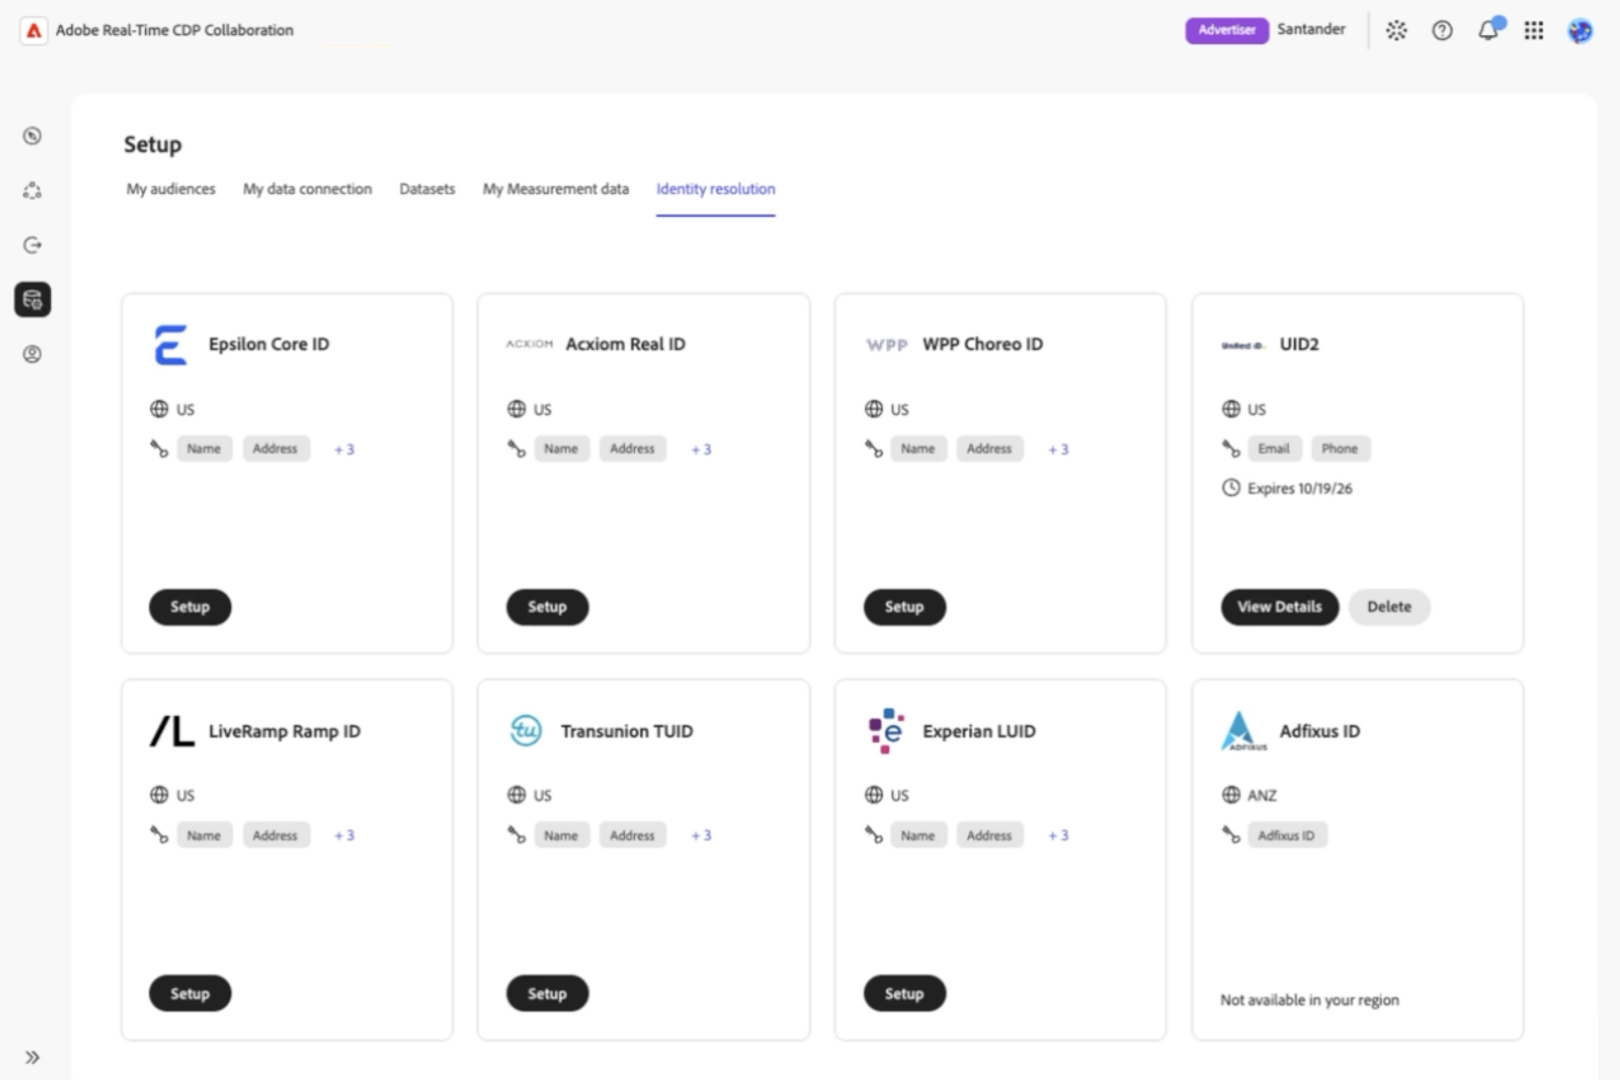
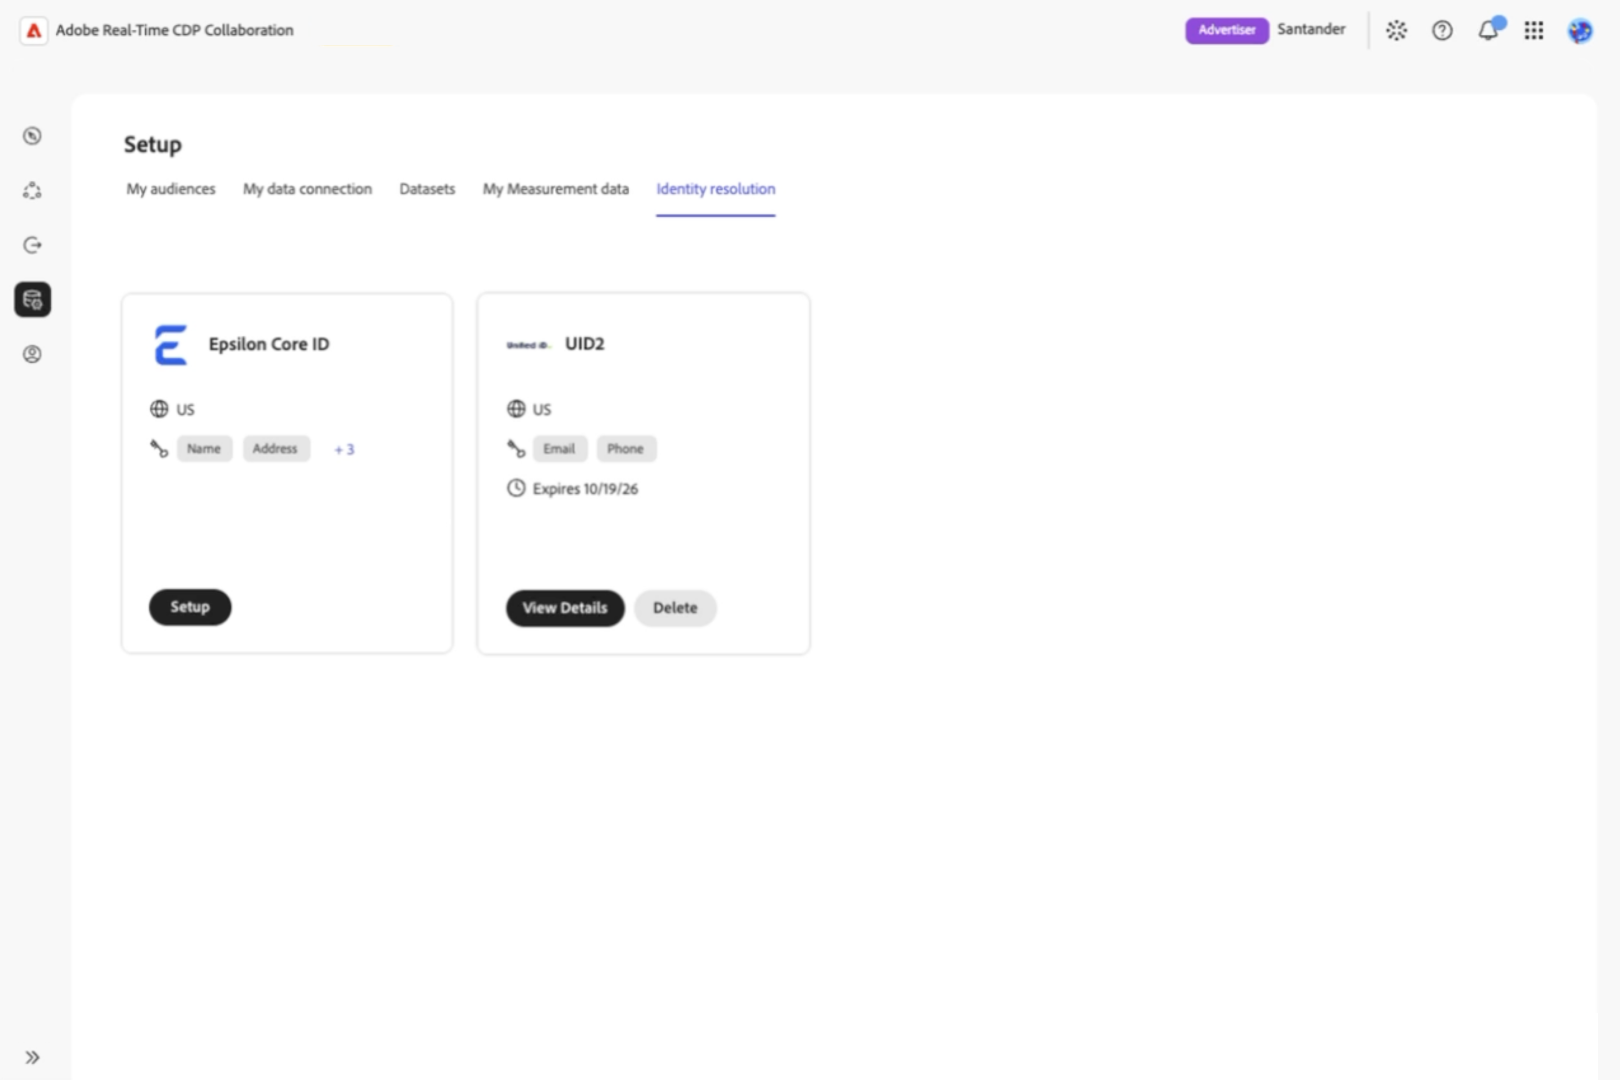
updates for clairty, general provider changes and flow

diff --git a/help/guide/setup/identity-resolution.md b/help/guide/setup/identity-resolution.md
@@ -1,6 +1,6 @@
 ---
 title: Set up and manage identity resolution
-description: Learn how to configure and manage Epsilon Core ID identity resolution for audience data connections in Real-Time CDP Collaboration.
+description: Learn how to configure and manage identity resolution in Real-Time CDP Collaboration.
 audience: admin, publisher, advertiser
 badgelimitedavailability: label="Limited Availability" type="Informative" url="https://helpx.adobe.com/legal/product-descriptions/real-time-customer-data-platform-collaboration.html newtab=true"
 product_v2:
@@ -11,19 +11,23 @@ product_v2:
 
 {{limited-availability-release-note}}
 
-Your organization and its collaborators may use different identifiers for the same customer. [!DNL Epsilon Core ID] identity resolution matches identifiers in your audience data to Epsilon Core IDs, helping you identify shared customers when working with supported collaborators. Real-Time CDP Collaboration lets you configure and manage this process without building custom integrations for individual partners.
+Identity resolution helps you identify customers you have in common with collaborators, even when your organizations use different identifiers. Real-Time CDP Collaboration lets you configure and manage identity resolution with supported identity providers without building custom integrations for each partner.
+
+>[!NOTE]
+>
+>The steps and screenshots in this guide use [!DNL Epsilon Core ID] as an example. Requirements and available options may differ depending on your identity provider.
 
 >[!AVAILABILITY]
 >
->Epsilon Core ID identity resolution is available for Real-Time CDP Collaboration accounts provisioned in the United States.
+>Epsilon Core ID and UID2 identity resolution are only available for Real-Time CDP Collaboration accounts provisioned in the United States.
 
 ## Prerequisites {#prerequisites}
 
 Before you begin, make sure you have:
 
 * **Account-management permissions.** You must have **[!UICONTROL Manage Account]** and **[!UICONTROL Manage Collaboration Instances]** permissions.
-* **At least one audience data connection.** You need an existing audience data connection to configure identity resolution. [Set up audience sourcing](./source-overview.md) if needed. Measurement data connections are not supported.
-* **Supported match keys.** Your audience data connection must have hashed email, hashed phone, or both Name and Postal address enabled and mapped. If using Name and Postal address, map at least one field under each key. See [account match keys](./onboard-account.md#edit-match-keys) and [audience field mapping](./onboard-audiences.md#map-fields).
+* **At least one audience data connection.** You need an existing audience data connection to configure Epsilon Core ID identity resolution. [Set up audience sourcing](./source-overview.md) if needed. Measurement data connections are not supported.
+* **Supported match keys for Epsilon Core ID.** Your audience data connection must have hashed email, hashed phone, or both Name and Postal address enabled and mapped. If using Name and Postal address, map at least one field under each key. See [account match keys](./onboard-account.md#edit-match-keys) and [audience field mapping](./onboard-audiences.md#map-fields).
 * **Your Epsilon customer number.** Obtain this from your Epsilon account representative.
 
 >[!NOTE]
@@ -32,7 +36,7 @@ Before you begin, make sure you have:
 
 ## Configure identity resolution {#configure-identity-resolution}
 
-Choose which audience data connections and match keys to use when matching your customer identities to Epsilon Core IDs. You'll also set the date range for identity resolution and review your selections before confirming the configuration.
+Select an identity provider to begin configuring identity resolution. In this [!DNL Epsilon Core ID] example, you'll choose audience data connections and match keys, set a date range, and review your selections before confirming the configuration.
 
 To begin, select **[!UICONTROL Setup]** in the left navigation followed by the **[!UICONTROL Identity resolution]** tab to view the available identity providers.
 
@@ -42,106 +46,94 @@ Locate the **[!UICONTROL Epsilon Core ID]** card and review its supported region
 
 ![Identity provider catalog with the Epsilon Core ID card and its Setup action.](../../assets/setup/identity-resolution/select-an-identity-provider.png){zoomable="yes"}
 
-<!-- [UNVERIFIED: This prototype catalog displays providers planned for future releases. Replace or validate the image against the launch catalog.] -->
-
-Before opening the wizard, Collaboration checks for a data connection and compatible match keys. If a requirement is missing, follow the action in the dialog:
+Before starting the configuration workflow, Collaboration checks for a data connection and compatible match keys. If a requirement is missing, a dialog appears to guide the process. Follow the action in the dialog:
 
 * **[!UICONTROL Data connection required]:** Select **[!UICONTROL Set up data connection]** to configure an audience data connection. See [Source and manage audiences](./source-overview.md).
 * **[!UICONTROL Match key required]:** Select **[!UICONTROL Edit match keys]** to enable a supported key. See [Edit match keys](./onboard-account.md#edit-match-keys).
 
 If both are missing, the data connection dialog appears first. After fixing the prerequisites, return to **[!UICONTROL Identity resolution]** and select **[!UICONTROL Setup]** again.
 
-Accounts outside the supported region show **[!UICONTROL Not available in your region]** on the provider card.
+### Authenticate with your identity provider {#authenticate-with-provider}
 
-<!-- [UNVERIFIED: The available prerequisite-dialog screenshots show TransUnion and Acxiom. Use Core ID-specific captures if including those dialogs.] -->
+In the **[!UICONTROL Authenticate]** step, provide the information required by your identity provider. For Epsilon Core ID, enter your customer number in **[!UICONTROL Epsilon customer number]**. Select **[!UICONTROL Next]** to continue.
 
-### Authenticate with Epsilon {#authenticate-with-epsilon}
+![Authenticate step showing the Epsilon customer number field.](../../assets/setup/identity-resolution/epsilon-core-id-authenticate.png){zoomable="yes"}
 
-In the **[!UICONTROL Authenticate]** step, enter your number in **[!UICONTROL Epsilon customer number]** to associate the configuration with your Epsilon account. Select **[!UICONTROL Next]** to continue.
-
-![Authenticate step with the required Epsilon customer number field.](../../assets/setup/identity-resolution/epsilon-core-id-authenticate.png){zoomable="yes"}
-
-Check the number with your Epsilon representative if you are unsure it is correct. The initial release does not validate its format.
+If you are unsure of your Epsilon customer number, contact your Epsilon representative. The customer number format is not validated during setup.
 
 ### Select data connections {#select-data-connections}
 
-Select the audience data connections to use for identity resolution. All audiences within each selected connection, including those added later, are included. You cannot select individual audiences.
+Next, choose which audience data connections you want to use for identity resolution. This determines which audience data will be used to match your customer identities with your identity provider. All audiences within each selected connection, including those added later, are included. You cannot select individual audiences.
 
-If a connection is missing, [set up the audience data connection](./source-overview.md) before continuing.
+If the connection you want isn't listed, [set up the audience data connection](./source-overview.md) before continuing.
 
-Under **[!UICONTROL Data source(s)]**, review the cards in **[!UICONTROL Audience sources]** and select the checkbox for each connection you want to include. You must select at least one connection. Select **[!UICONTROL Next]** to continue.
+Under **[!UICONTROL Data source(s)]**, select the checkbox for each connection you want to include in **[!UICONTROL Audience sources]**. You must select at least one connection. Select **[!UICONTROL Next]** to continue.
 
 ![Audience source cards showing selected and unselected data connections.](../../assets/setup/identity-resolution/select-audience-data-connections.png){zoomable="yes"}
 
-<!-- [UNVERIFIED: Replace the manually altered screenshot with an authentic release capture.] -->
-
 ### Configure match keys {#configure-match-keys}
 
-Choose which available match keys to use for each selected connection. Disabled keys are excluded from identity resolution for that connection. These selections do not change your account-level match keys or field mappings.
+In the **[!UICONTROL Match keys]** step, choose which match keys to use for identity resolution for each selected connection. Turning off a key excludes it from identity resolution for that connection without changing your account-level match keys or field mappings.
 
-Under **[!UICONTROL Match keys]**, review the available keys for each connection and turn off any you do not want to use. Leave at least one eligible match key enabled per connection, then select **[!UICONTROL Next]** to continue.
+Review the available keys for each connection and turn off any you don't want to use. Leave at least one eligible match key enabled per connection, then select **[!UICONTROL Next]** to continue.
 
 ![Match keys step showing identifier toggles for a selected audience connection.](../../assets/setup/identity-resolution/per-connection-match-key-toggles.png){zoomable="yes"}
-
-<!-- [UNVERIFIED: The prototype shows Device ID. Confirm the final Core ID key list and replace this screenshot if needed.] -->
 
 Core ID accepts hashed email, hashed phone, or the combination of Name and Postal address. If a key is missing, check the [account match keys](./onboard-account.md#edit-match-keys) and [audience field mappings](./onboard-audiences.md#map-fields).
 
 ### Set an identity resolution schedule {#set-schedule}
 
-Choose the date range for identity resolution. Runs follow the schedule of the underlying audience data connection; you cannot set a separate frequency in the wizard.
+Choose the start and end dates for identity resolution. Identity resolution follows the schedule of your audience data connection, so you cannot set a separate refresh frequency.
 
-Under **[!UICONTROL Schedule]**, select the calendar control for **[!UICONTROL Date range]** and choose the start and end dates. Select **[!UICONTROL Next]** to continue.
+In the **[!UICONTROL Schedule]** step, select the calendar control under **[!UICONTROL Date range]** and choose your dates. Select **[!UICONTROL Next]** to continue.
 
 ![Schedule step with a date range for Epsilon Core ID identity resolution.](../../assets/setup/identity-resolution/schedule-identity-resolution-job.png){zoomable="yes"}
 
-<!-- [UNVERIFIED: Replace this prototype screenshot. It mentions an API token, measurement sources, and a scheduling hold inconsistent with the confirmed launch workflow.] -->
-
 ### Review and confirm the configuration {#review-and-confirm}
 
-Review your authentication details, selected audience data connections, match keys, and schedule under **[!UICONTROL Review]**. To make changes, select **[!UICONTROL Edit]** beside the relevant section.
+In the **[!UICONTROL Review]** step, check your authentication details, selected audience data connections, match keys, and schedule. To make changes, select **[!UICONTROL Edit]** beside the relevant section.
 
-Once you've confirmed your selections, select **[!UICONTROL Confirm and schedule]**. You cannot edit the configuration after setup; changes require deleting it and setting it up again.
+You cannot edit the configuration after setup. To make changes later, you must delete it and set it up again. Once you're satisfied with your selections, select **[!UICONTROL Confirm and schedule]**.
 
 ![Review step showing the authentication, data sources, match keys, and schedule summary.](../../assets/setup/identity-resolution/review-and-confirm.png){zoomable="yes"}
 
-<!-- [UNVERIFIED: Replace this prototype screenshot. It mentions an API token, measurement sources, and a scheduling hold inconsistent with the confirmed launch workflow.] -->
+A confirmation dialog indicates that identity resolution has been configured successfully. The first identity resolution run starts **PLACEHOLDER**.
 
-A confirmation dialog indicates that the Core ID configuration has been set up. The first identity resolution run starts **PLACEHOLDER**.
-
-<!-- [UNVERIFIED: When does the first run start relative to confirmation and the data connection schedule?] -->
+<!-- [Question: Does the first identity resolution run happen immediately after setup, or at the next scheduled audience data connection refresh?] -->
 
 ## Manage identity resolution {#manage-identity-resolution}
 
-Return to **[!UICONTROL Setup]** > **[!UICONTROL Identity resolution]** to view or delete your Core ID configuration. Changes to an existing configuration require deleting it and setting it up again.
+After confirming your setup, you're automatically returned to the **[!UICONTROL Identity resolution]** tab, where you can view or delete your configuration.
 
 ### View configuration details {#view-configuration-details}
 
-On the configured **[!UICONTROL Epsilon Core ID]** card, select **[!UICONTROL View details]**.
+To review your configuration, select **[!UICONTROL View details]** on your configured identity provider's card.
 
-Check that the Epsilon customer number, match keys, date range, and audience data connections match your intended setup. The details page also shows the configuration's status and creation and update information.
+Verify the authentication details, selected audience data connections, match keys, and date range. You can also view the configuration status and creation and update information.
 
-![Epsilon Core ID details page with configuration status, match keys, schedule, and associated audience connection.](../../assets/setup/identity-resolution/view-connection-details.png){zoomable="yes"}
-
-<!-- [UNVERIFIED: Confirm the action label; the PRD says "View details," while Product says "View." Replace the staging screenshot to remove internal details. Active describes configuration status, not necessarily successful job processing; confirm whether run status is available.] -->
+![Identity resolution configuration details showing status, match keys, schedule, and associated audience connection.](../../assets/setup/identity-resolution/view-connection-details.png){zoomable="yes"}
 
 ### Change an existing configuration {#edit-configuration}
 
 You cannot edit a Core ID configuration after setup. To change the Epsilon customer number, selected connections, match keys, or date range, [delete the configuration](#delete-configuration) and complete the [setup workflow](#configure-identity-resolution) again.
 
+<!-- Question: Do other providers have the same limitation? -->
+
 ### Delete an identity resolution configuration {#delete-configuration}
 
-To delete an existing Core ID configuration, navigate to **[!UICONTROL Setup]** > **[!UICONTROL Identity resolution]** and select **[!UICONTROL Delete]** on the configured **[!UICONTROL Epsilon Core ID]** card. Review the confirmation dialog, then select **[!UICONTROL Delete]** to confirm.
+To delete a configuration, navigate to **[!UICONTROL Setup]** > **[!UICONTROL Identity resolution]** and select **[!UICONTROL Delete]** on your configured identity provider's card. Review the confirmation dialog, then select **[!UICONTROL Delete]** to confirm.
 
-Deleting the configuration **PLACEHOLDER**. You must [set it up again](#configure-identity-resolution) to use Core ID identity resolution with this account.
+Deleting the configuration **PLACEHOLDER**. If you want to use this identity provider again, you'll need to [set up a new configuration](#configure-identity-resolution).
 
 <!-- [UNVERIFIED: Does deletion affect previously resolved identifiers, future processing, or both? Confirm before publication.] -->
 
 ## Troubleshoot setup issues {#troubleshoot}
 
-If you encounter a missing data connection or match key, follow the instructions under [Select an identity provider](#select-identity-provider). For other setup issues, check the following:
+If you cannot begin setup because a data connection or match key is missing, follow the instructions under [Select an identity provider](#select-identity-provider).
 
-* **Not available in your region:** Core ID is available only to US-provisioned Collaboration accounts in this release.
-* **Epsilon customer number unavailable:** Request it from your Epsilon representative.
+For Epsilon Core ID, check the following:
+
+* **Not available in your region:** Epsilon Core ID is available only for Collaboration accounts provisioned in the United States.
+* **Epsilon customer number unavailable:** Contact your Epsilon representative to obtain your customer number.
 
 <!-- [UNVERIFIED: Confirm final dialog labels and remediation navigation using the release UI. Demo dialogs use other identity providers.] -->
